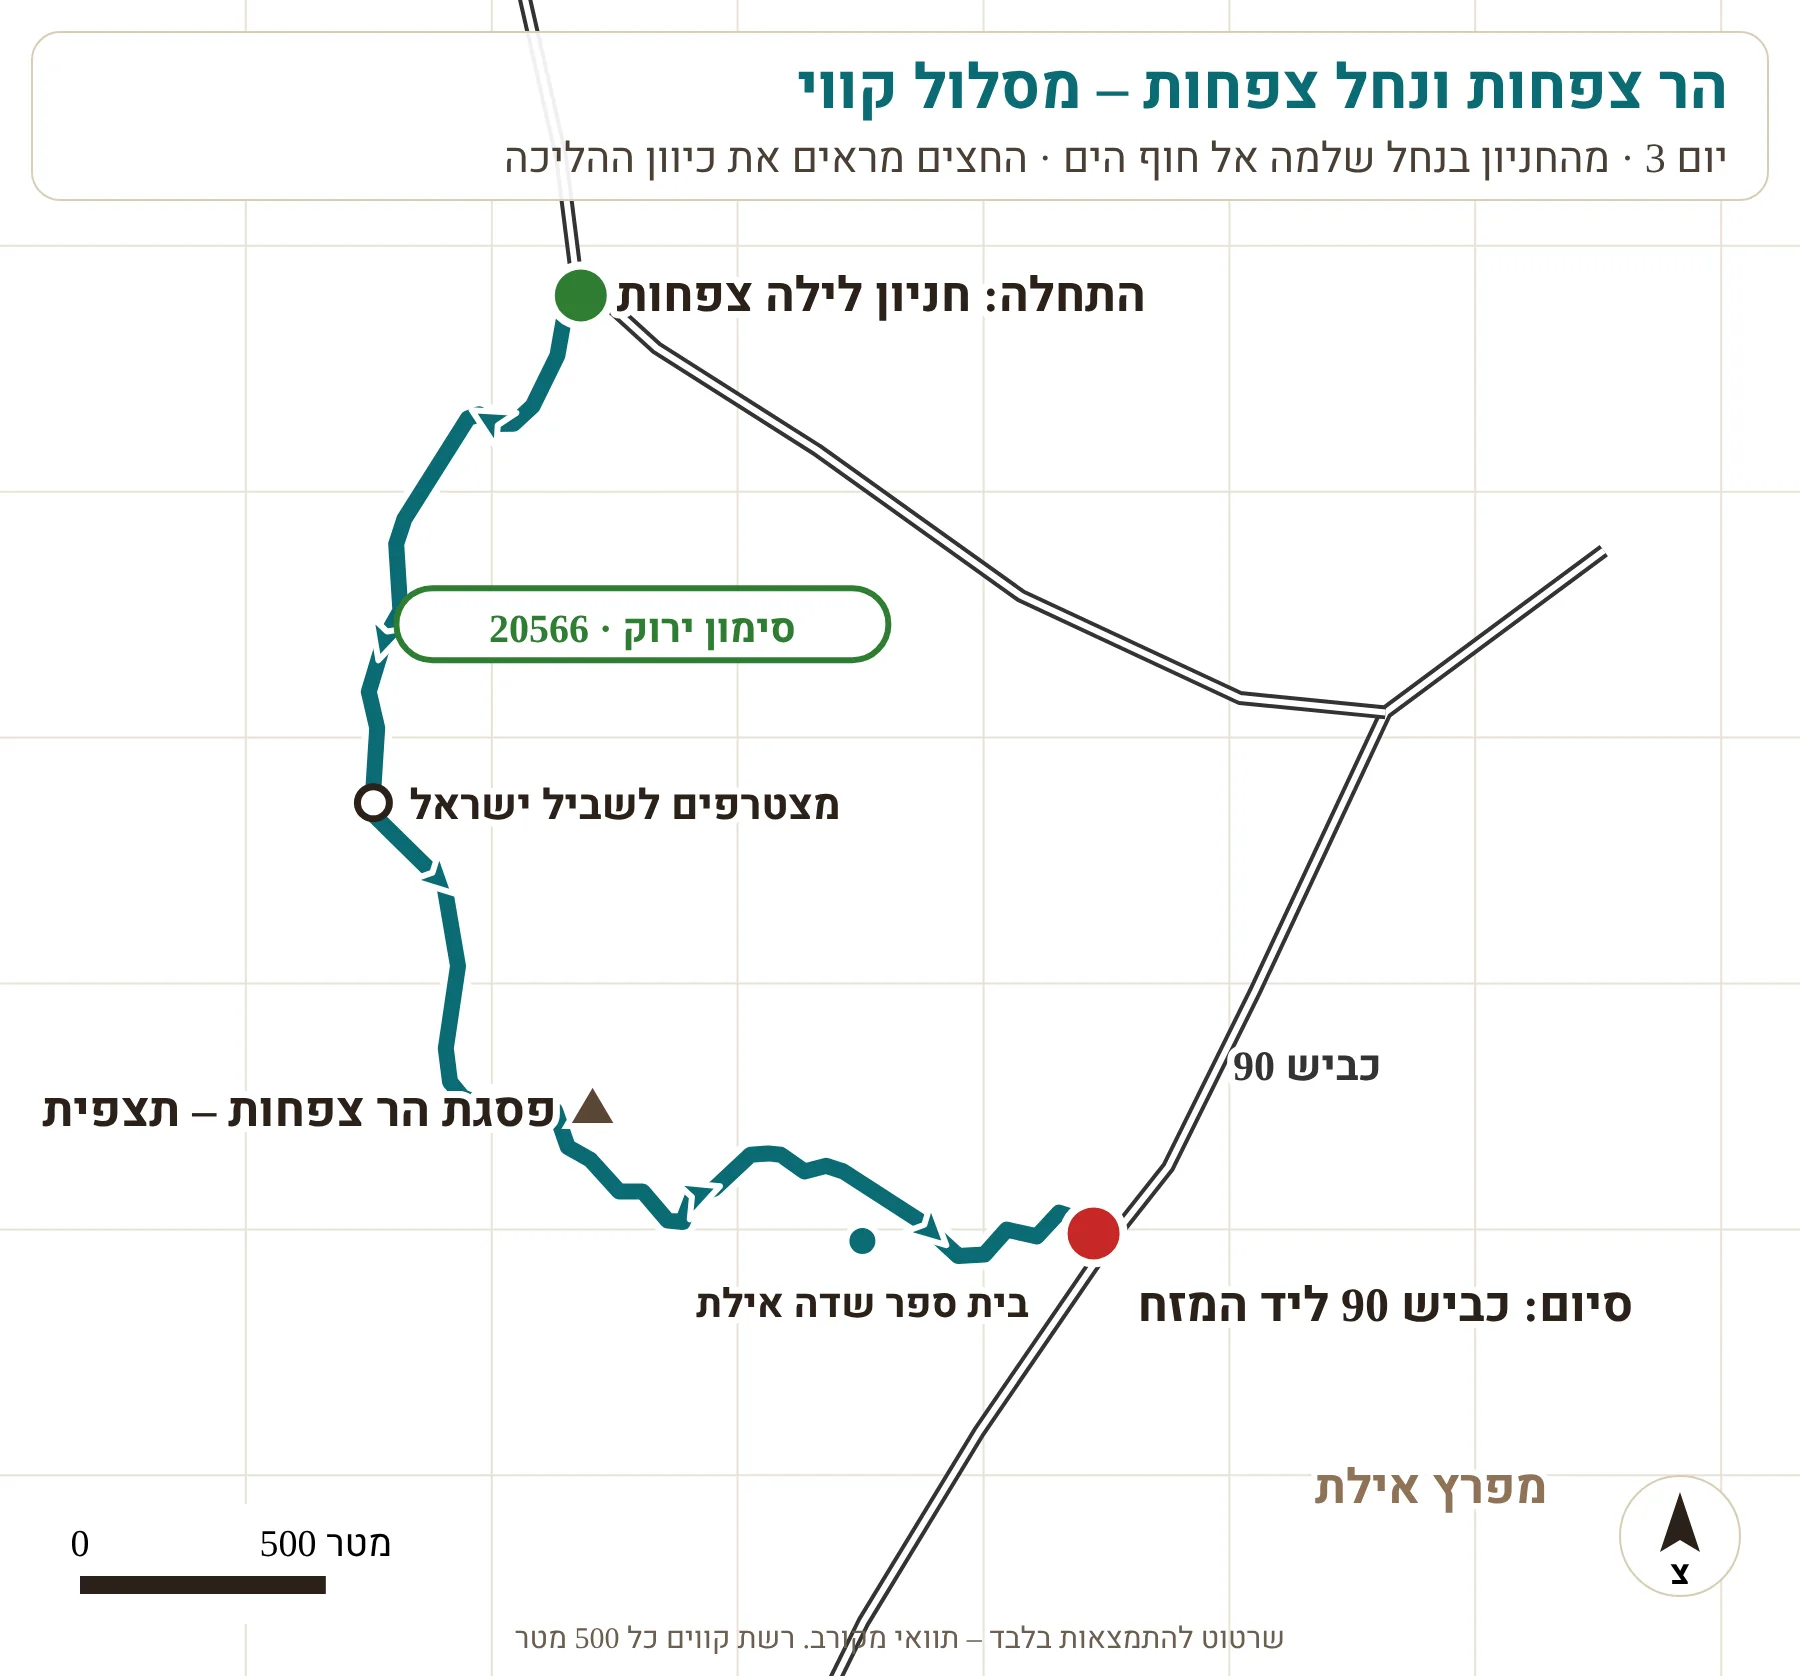
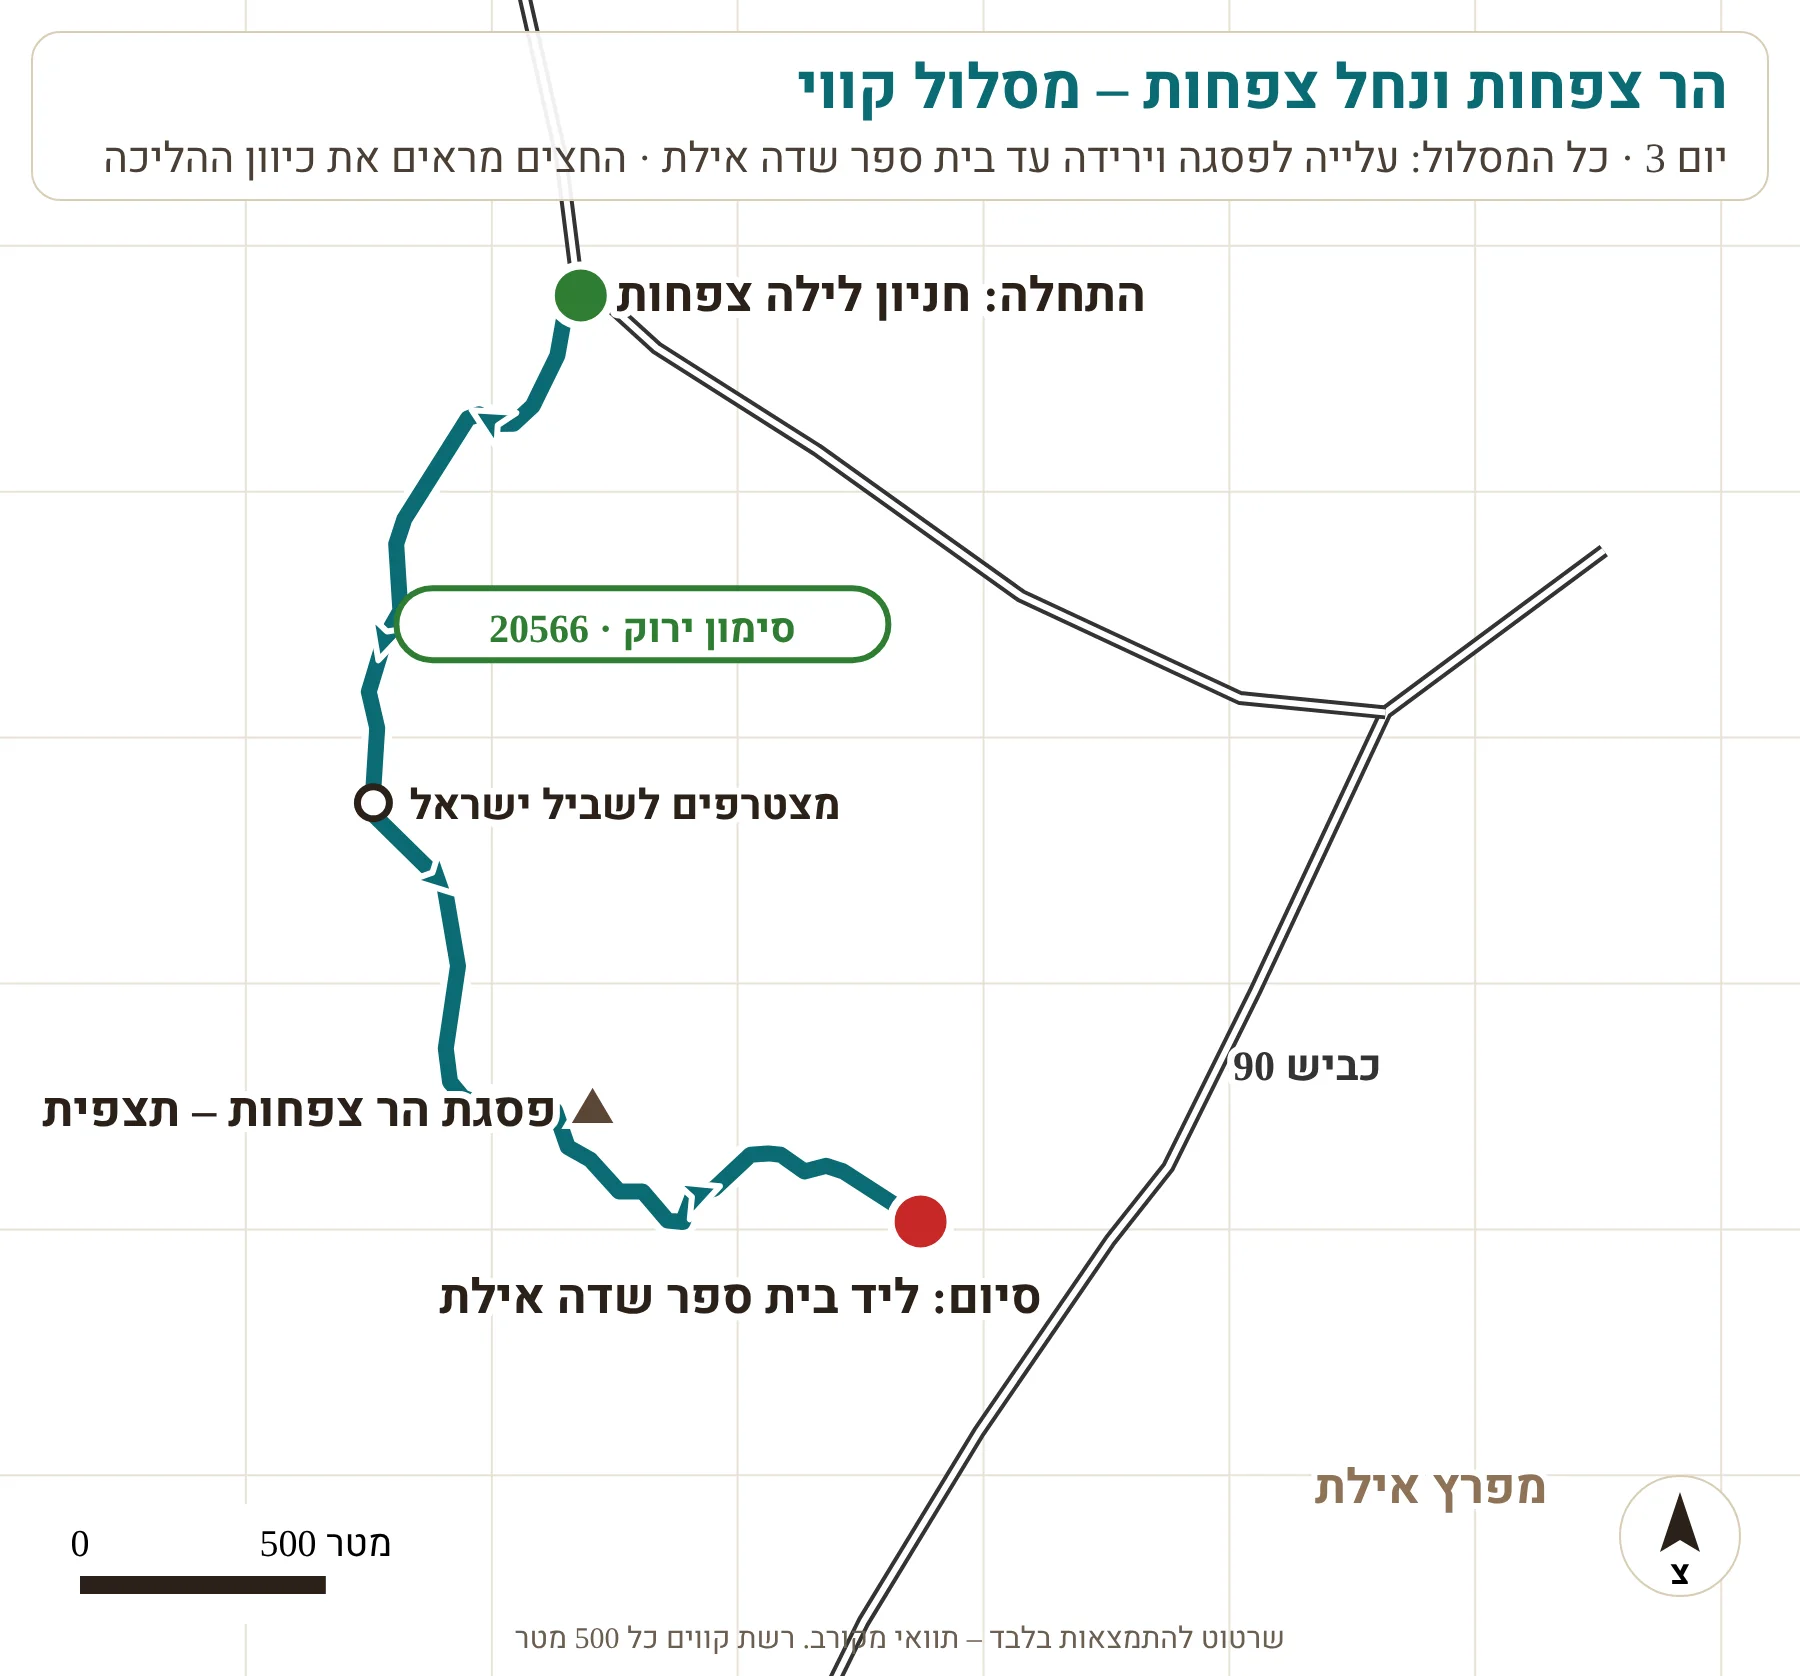
v2.8.0: day 3 without Ink Flag, Ice Mall 13:30, Tzfachot full route to Eilat field school, night mode auto-off in the morning
Claude-Session: https://claude.ai/code/session_017ufJBgqgSqmbuZkyZyoNeJ

diff --git a/app.js b/app.js
@@ -1,7 +1,7 @@
 /* טיול שנתי י"ב תשפ"ז – אתר הטיול. ללא איסוף מידע: הכול נשמר מקומית בטלפון (localStorage). */
 'use strict';
 
-const APP_VERSION = '2.7.6';
+const APP_VERSION = '2.8.0';
 const LETTERS = ["א'", "ב'", "ג'", "ד'"];
 const MAPS = {
   eilat: { title: 'הרי אילת', img: 'maps/eilat.webp', lat0: 29.72, lat1: 29.48, lon0: 34.84, lon1: 35.03, latRef: 29.6, vbW: 688.4, vbH: 1000,
@@ -300,7 +300,7 @@ function viewRoutes() {
   return `<h1>המסלולים</h1>` + C.days.map((d, i) => { const r = routeOf(d.route); const p = (r.photos || [])[0];
     return `<a class="routecard big" href="#route-${r.id}">${p ? `<img src="${esc(p.src)}" alt="">` : ''}<div><div class="kicker">יום ${i + 1} · ${esc(d.weekday)} ${fmtDate(d.date)}</div><b>${badge(r)}${esc(r.name)}</b><span>${esc(r.facts.slice(0, 2).map(f => f[1]).join(' · '))}</span></div></a>`; }).join('') +
     `<div class="card soft"><h2>⛺ לינה: חאן יעלים</h2><p>בצומת יטבתה, כ-150 מטר מזרחית לפונדק יטבתה. שני הלילות של הטיול.</p></div>
-     <div class="card soft"><h2>🏬 אייס מול, אילת</h2><p>ביקור ביום השלישי, אחרי מסלול הר צפחות ואום רשרש. <a href="#rules">הנהלים לאייס מול</a></p></div>` + footer();
+     <div class="card soft"><h2>🏬 אייס מול, אילת</h2><p>ביקור ביום השלישי, אחרי מסלול הר צפחות. <a href="#rules">הנהלים לאייס מול</a></p></div>` + footer();
 }
 function viewRoute(id) {
   const r = routeOf(id); if (!r) return viewRoutes();
@@ -552,11 +552,11 @@ function setZoom(dz) {
   if (old !== zoom) toast(zoom === 1 ? 'תצוגה מלאה' : `הגדלה ×${zoom}`);
 }
 /* ---------- התקדמות במסלול / זמן נסיעה משוער (מחושב בטלפון בלבד, הערכה גסה) ---------- */
-const TRACKS = {"amir":[[29.64827,34.94246],[29.64781,34.94194],[29.64786,34.94118],[29.64766,34.94095],[29.64694,34.94083],[29.64557,34.94119],[29.64353,34.93968],[29.6423,34.93834],[29.64214,34.9363],[29.64092,34.93659],[29.63888,34.938],[29.6372,34.93806],[29.63394,34.93894],[29.63221,34.94076],[29.63109,34.94111],[29.63018,34.94181],[29.62666,34.94293],[29.62467,34.94288],[29.62452,34.94311]],"tzfachot":[[29.52751,34.91109],[29.52713,34.91074],[29.52642,34.9106],[29.5255,34.91007],[29.52516,34.90967],[29.52516,34.90929],[29.52534,34.90894],[29.52526,34.90871],[29.52343,34.90737],[29.52297,34.9072],[29.52174,34.90729],[29.52126,34.90697],[29.52026,34.90663],[29.5196,34.9068],[29.51805,34.90669],[29.51675,34.90821],[29.51525,34.9085],[29.51374,34.90825],[29.51313,34.90834],[29.51285,34.9086],[29.51273,34.90895],[29.5126,34.91055],[29.51194,34.91081],[29.51171,34.91128],[29.51113,34.91189],[29.51113,34.91239],[29.51059,34.91291],[29.51057,34.91323],[29.51103,34.91343],[29.51118,34.9139],[29.5118,34.91465],[29.51182,34.91503],[29.5118,34.91529],[29.51149,34.91579],[29.51159,34.91625],[29.51149,34.9166],[29.51058,34.91823],[29.50994,34.91902],[29.50997,34.91957],[29.51043,34.92004],[29.5103,34.92068],[29.51074,34.92114],[29.51059,34.9217],[29.51036,34.92187]],"red":[[29.67922,34.87506],[29.68029,34.8752],[29.68081,34.87529],[29.68108,34.87557],[29.68149,34.8758],[29.68173,34.87628],[29.6818,34.87665],[29.6818,34.87725],[29.68187,34.87737],[29.68171,34.87774],[29.68152,34.87867],[29.68162,34.87954],[29.68161,34.88043],[29.6815,34.88055],[29.68101,34.88074],[29.68045,34.88136],[29.68026,34.88178],[29.68026,34.88236],[29.68041,34.8827],[29.68121,34.88378],[29.68224,34.88434],[29.68266,34.88466],[29.68309,34.88483],[29.68321,34.88538],[29.68321,34.88581],[29.68316,34.88606],[29.68301,34.88618],[29.6822,34.88591],[29.68173,34.88595],[29.68127,34.88611],[29.68046,34.88708],[29.67998,34.8874],[29.6796,34.88753],[29.67913,34.88752],[29.67932,34.88657],[29.67921,34.88723],[29.67914,34.88737],[29.67898,34.88736],[29.67913,34.88737],[29.67905,34.88773],[29.67908,34.88823],[29.67939,34.88865],[29.67949,34.88914],[29.6794,34.88939],[29.67908,34.88987],[29.67875,34.89026],[29.6786,34.89034],[29.67833,34.89026],[29.67784,34.88972],[29.67755,34.88958],[29.67717,34.88965],[29.67752,34.88958],[29.67777,34.88882],[29.6783,34.88848],[29.6784,34.88763],[29.67853,34.88745],[29.67883,34.88736],[29.67916,34.88736],[29.67933,34.88647],[29.67926,34.88591],[29.67883,34.88508],[29.67857,34.88494],[29.67743,34.88463],[29.67717,34.88445],[29.67701,34.88423],[29.67684,34.88335],[29.67649,34.88285],[29.67638,34.88223],[29.67645,34.88155],[29.67673,34.88069],[29.67672,34.88015],[29.67639,34.87971],[29.67619,34.87833],[29.67598,34.87816],[29.67582,34.87815],[29.67562,34.87782],[29.67532,34.87775],[29.67563,34.87784],[29.67585,34.87754],[29.6761,34.87739],[29.67632,34.87706],[29.67677,34.87675],[29.67704,34.87617],[29.67741,34.87603],[29.678,34.87595],[29.67829,34.87575],[29.67922,34.87506]]};
+const TRACKS = {"amir":[[29.64827,34.94246],[29.64781,34.94194],[29.64786,34.94118],[29.64766,34.94095],[29.64694,34.94083],[29.64557,34.94119],[29.64353,34.93968],[29.6423,34.93834],[29.64214,34.9363],[29.64092,34.93659],[29.63888,34.938],[29.6372,34.93806],[29.63394,34.93894],[29.63221,34.94076],[29.63109,34.94111],[29.63018,34.94181],[29.62666,34.94293],[29.62467,34.94288],[29.62452,34.94311]],"tzfachot":[[29.52751,34.91109],[29.52713,34.91074],[29.52642,34.9106],[29.5255,34.91007],[29.52516,34.90967],[29.52516,34.90929],[29.52534,34.90894],[29.52526,34.90871],[29.52343,34.90737],[29.52297,34.9072],[29.52174,34.90729],[29.52126,34.90697],[29.52026,34.90663],[29.5196,34.9068],[29.51805,34.90669],[29.51675,34.90821],[29.51525,34.9085],[29.51374,34.90825],[29.51313,34.90834],[29.51285,34.9086],[29.51273,34.90895],[29.5126,34.91055],[29.51194,34.91081],[29.51171,34.91128],[29.51113,34.91189],[29.51113,34.91239],[29.51059,34.91291],[29.51057,34.91323],[29.51103,34.91343],[29.51118,34.9139],[29.5118,34.91465],[29.51182,34.91503],[29.5118,34.91529],[29.51149,34.91579],[29.51159,34.91625],[29.51149,34.9166],[29.51058,34.91823]],"red":[[29.67922,34.87506],[29.68029,34.8752],[29.68081,34.87529],[29.68108,34.87557],[29.68149,34.8758],[29.68173,34.87628],[29.6818,34.87665],[29.6818,34.87725],[29.68187,34.87737],[29.68171,34.87774],[29.68152,34.87867],[29.68162,34.87954],[29.68161,34.88043],[29.6815,34.88055],[29.68101,34.88074],[29.68045,34.88136],[29.68026,34.88178],[29.68026,34.88236],[29.68041,34.8827],[29.68121,34.88378],[29.68224,34.88434],[29.68266,34.88466],[29.68309,34.88483],[29.68321,34.88538],[29.68321,34.88581],[29.68316,34.88606],[29.68301,34.88618],[29.6822,34.88591],[29.68173,34.88595],[29.68127,34.88611],[29.68046,34.88708],[29.67998,34.8874],[29.6796,34.88753],[29.67913,34.88752],[29.67932,34.88657],[29.67921,34.88723],[29.67914,34.88737],[29.67898,34.88736],[29.67913,34.88737],[29.67905,34.88773],[29.67908,34.88823],[29.67939,34.88865],[29.67949,34.88914],[29.6794,34.88939],[29.67908,34.88987],[29.67875,34.89026],[29.6786,34.89034],[29.67833,34.89026],[29.67784,34.88972],[29.67755,34.88958],[29.67717,34.88965],[29.67752,34.88958],[29.67777,34.88882],[29.6783,34.88848],[29.6784,34.88763],[29.67853,34.88745],[29.67883,34.88736],[29.67916,34.88736],[29.67933,34.88647],[29.67926,34.88591],[29.67883,34.88508],[29.67857,34.88494],[29.67743,34.88463],[29.67717,34.88445],[29.67701,34.88423],[29.67684,34.88335],[29.67649,34.88285],[29.67638,34.88223],[29.67645,34.88155],[29.67673,34.88069],[29.67672,34.88015],[29.67639,34.87971],[29.67619,34.87833],[29.67598,34.87816],[29.67582,34.87815],[29.67562,34.87782],[29.67532,34.87775],[29.67563,34.87784],[29.67585,34.87754],[29.6761,34.87739],[29.67632,34.87706],[29.67677,34.87675],[29.67704,34.87617],[29.67741,34.87603],[29.678,34.87595],[29.67829,34.87575],[29.67922,34.87506]]};
 const STOPS = {
   d1: [['עבדת', '10:00', 30.7935, 34.7733], ['הקניון האדום', '15:00', 29.67922, 34.87506], ['חאן יעלים', '24:00', 29.887, 35.062]],
   d2: [['תחילת מסלול נחל אמיר', '15:00', 29.64827, 34.94246], ['יטבתה', '16:15', 29.886, 35.06], ['חאן יעלים', '24:00', 29.887, 35.062]],
-  d3: [['תחילת מסלול הר צפחות', '11:30', 29.52751, 34.91109], ['אום רשרש', '13:30', 29.5525, 34.9556], ['אייס מול', '17:00', 29.5545, 34.9615], ['בית הספר ברחובות', '24:00', 31.895, 34.81]]
+  d3: [['תחילת מסלול הר צפחות', '10:30', 29.52751, 34.91109], ['אייס מול', '17:00', 29.5545, 34.9615], ['בית הספר ברחובות', '24:00', 31.895, 34.81]]
 };
 function kmBetween(a, b) {
   const k = Math.PI / 180, x = (b[1] - a[1]) * k * Math.cos((a[0] + b[0]) / 2 * k), y = (b[0] - a[0]) * k;

diff --git a/extras.js b/extras.js
@@ -15,6 +15,9 @@
   /* ================= מצב חיסכון ומצב לילה ================= */
   function applyModes() {
     const m = S.get('modes', {});
+    /* מצב לילה אדום כבה לבד בבוקר (06:00–17:00), כדי שהמסך לא יישאר כהה למחרת */
+    const h = new Date().getHours();
+    if (m.night && h >= 6 && h < 17) { m.night = false; S.set('modes', m); }
     document.body.classList.toggle('saver', !!(m.saver || m.night));
     document.body.classList.toggle('nightred', !!m.night);
     const tc = document.querySelector('meta[name="theme-color"]'); if (tc) tc.content = m.night ? '#000000' : m.saver ? '#111111' : '#b8461f';
@@ -219,6 +222,6 @@
     if (t.dataset.x === 'saver' || t.dataset.x === 'night') setMode(t.dataset.x, t.checked);
   });
 
-  applyModes(); setTimeout(batteryHint, 4000);
+  applyModes(); setTimeout(batteryHint, 4000); document.addEventListener('visibilitychange', () => { if (!document.hidden) applyModes(); });
   window.TripExtras = { viewBus, viewSky, challengeCard, forecastCard, modesCard, applyModes };
 })();

diff --git a/sw.js b/sw.js
@@ -1,5 +1,5 @@
 /* Service worker: שומר את כל קבצי האתר בטלפון לשימוש ללא אינטרנט. לא אוסף ולא שולח מידע. */
-const CACHE = 'trip12-2.7.6';
+const CACHE = 'trip12-2.8.0';
 const ASSETS = ['./', 'index.html', 'styles.css', 'app.js', 'game.js', 'extras.js', 'lib/qrcode.min.js', 'lib/jsQR.min.js', 'manifest.webmanifest', 'data/content.json',
   'icons/icon-192.png', 'icons/icon-512.png', 'icons/icon-maskable-512.png', 'icons/apple-touch-icon.png',
   'maps/eilat.webp', 'maps/israel.webp', 'maps/route-red.webp', 'maps/route-amir.webp', 'maps/route-tzfachot.webp',
